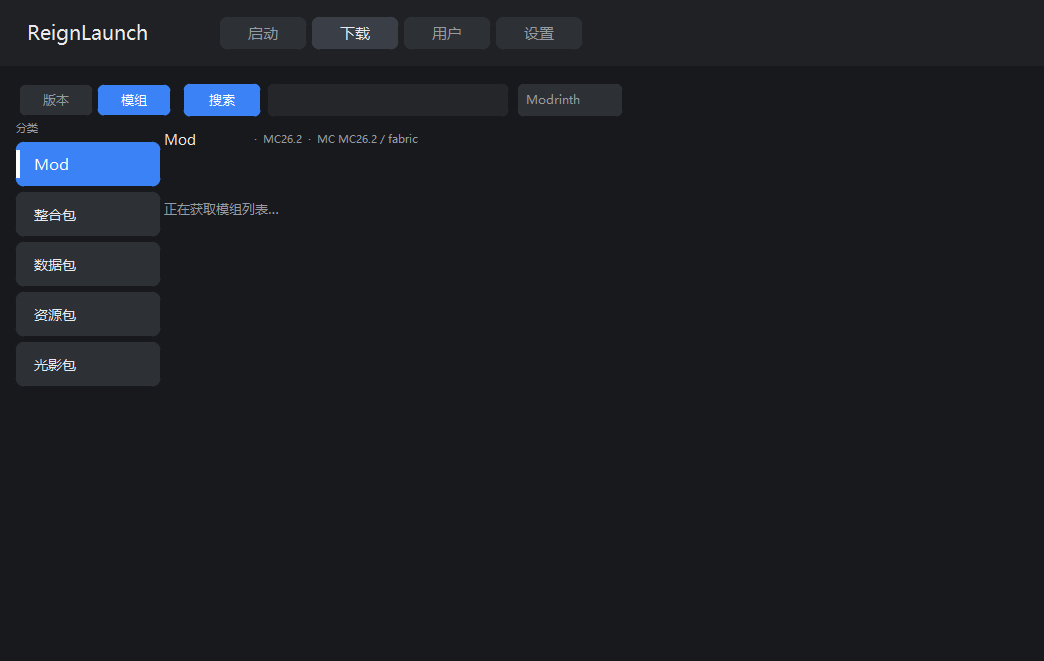
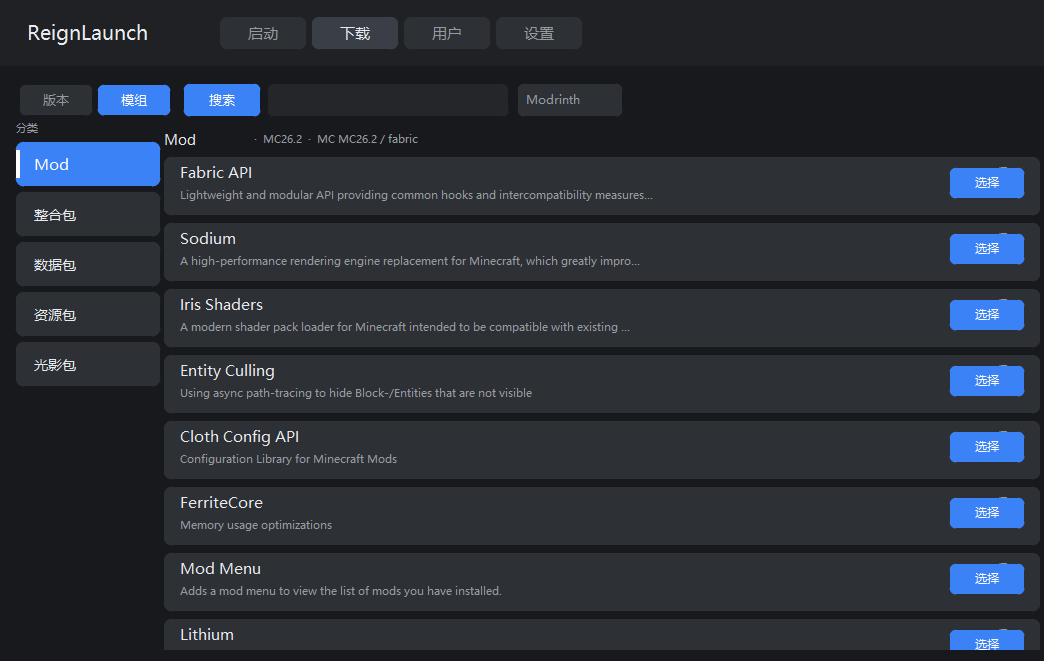
fix: 制作人改为 加纳Brightchaserove（抖音）; 更新截图与 README

diff --git a/src/ReignLaunch.cpp b/src/ReignLaunch.cpp
@@ -7500,7 +7500,7 @@ public:
         struct KV { const char* k; std::string v; };
         KV rows[] = {
             { "版本",     APP_VER_STR },
-            { "制作人",   "ShadowForgekin" },
+            { "制作人",   "加纳Brightchaserove（抖音）" },
             { "游戏目录", g_cfg.gameDir },
         };
         for (auto& r : rows) {

diff --git a/README.md b/README.md
@@ -2,6 +2,7 @@
 
 **一个从零手写的 Minecraft 启动器 · FLTK 1.4.5 · 单文件源码**
 
+[![作者](https://img.shields.io/badge/作者-加纳Brightchaserove（抖音）-fe2c55)](https://www.douyin.com/)
 [![Version](https://img.shields.io/badge/version-1.3.0%20RC%201-4a9eff)](https://github.com/ShadowForgekin/ReignLaunch/releases)
 [![Platform](https://img.shields.io/badge/platform-Windows%2010%2F11-0078d4)](https://github.com/ShadowForgekin/ReignLaunch)
 [![FLTK](https://img.shields.io/badge/FLTK-1.4.5-ff6b35)](https://www.fltk.org/)
@@ -154,4 +155,4 @@ Powered by **FLTK** · **miniz** · **nlohmann/json**
 
 [MIT](LICENSE)
 
-作者：**ShadowForgekin**
+作者：**加纳Brightchaserove（抖音）**
